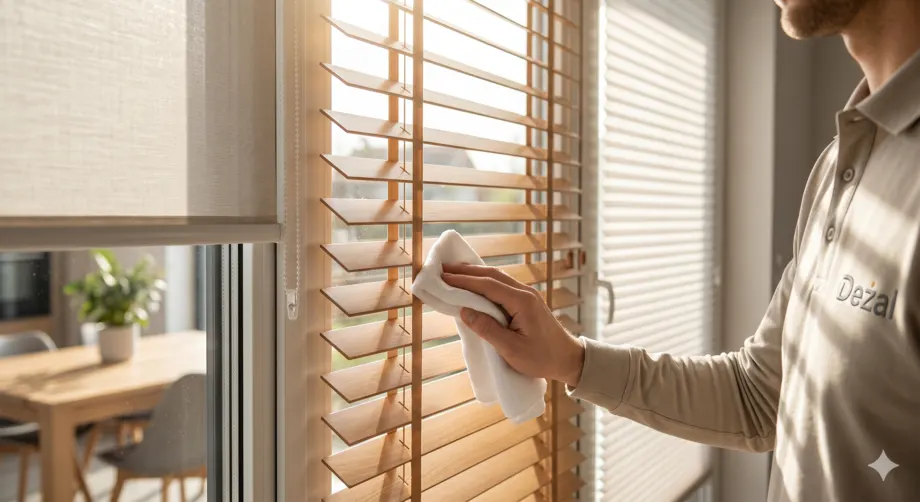
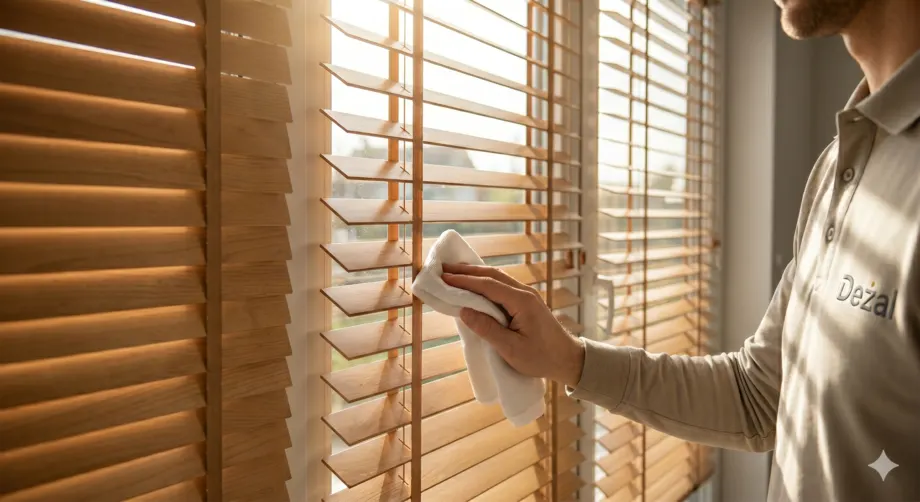
fix texts

diff --git a/app/components/Offer.scss b/app/components/Offer.scss
@@ -3,7 +3,7 @@
 .Offer {
   &__main-container {
     display: flex;
-    width: 100%;
+    // width: 100%;
     background: $color-white;
     margin: 50px 0;
     padding: 0 16px;

diff --git a/app/components/article/main.scss b/app/components/article/main.scss
@@ -58,7 +58,7 @@
     }
     @include for-tablet {
       @include text(32px, left, $black-400, 500);
-      margin: 20px auto 42px;
+      margin: 32px auto 24px;
     }
 
     max-width: 720px;

diff --git a/app/pages/moskitiery/index.vue b/app/pages/moskitiery/index.vue
@@ -52,7 +52,7 @@ const faqData = ref([
   {
     question: 'Jak prawidłowo czyścić i myć moskitiery z kurzu i pyłków?',
     answer:
-      'Czyszczenie jest bardzo proste. Po szybkim zdjęciu ramki z okna wystarczy wstawić ją pod prysznic lub do wanny i spłukać letnią wodą z użyciem słuchawki prysznicowej. Przy większych zabrudzeniach można delikatnie przetrzeć siatkę miękką gąbką z odrobiną szarego mydła. Odradzamy używanie silnych środków chemicznych oraz myjek ciśnieniowych, które mogłyby rozerwać włókna.',
+      'Sposób zależy od modelu. Ramkowe po zdjęciu spłucz pod prysznicem letnią wodą. Tarasowe i kasetowe odkurz miękką szczotką lub przetrzyj wilgotną ściereczką bezpośrednio na oknie. Unikaj chemii i myjek ciśnieniowych.',
   },
 ]);
 // ------------------------------------